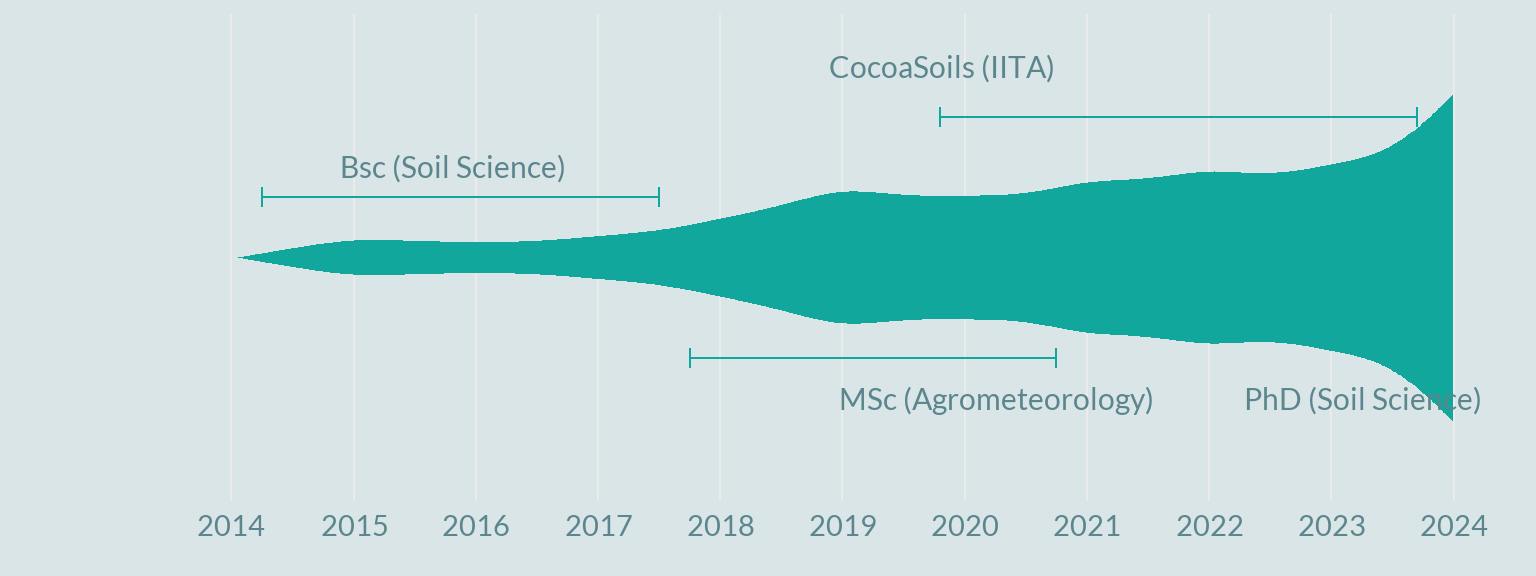
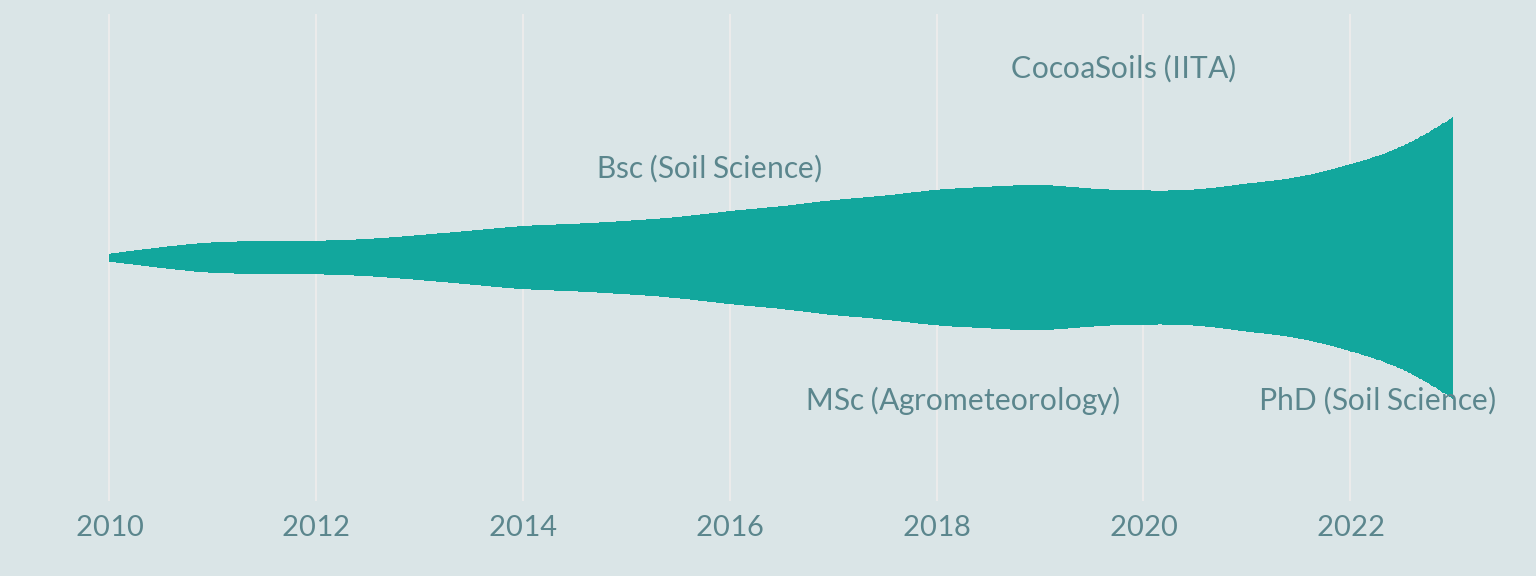
update my stream graph

diff --git a/index.html b/index.html
@@ -380,7 +380,7 @@ Oluwafemi Oyedele
 <h2></h2>
 <h4 data-background-color="#5b868d" id="my-r-journey-so-far">My R journey (so far)</h4>
 
-<img data-src="index_files/figure-revealjs/unnamed-chunk-2-1.png" alt="A stream graph showing the use of R for the author between 2014 and present day. The y-axis represents the general quantity of how often R was used, with no units. An increase is seen from 2019, and then more significantly in the last year." width="768" class="r-stretch quarto-figure-center"></section>
+<img data-src="index_files/figure-revealjs/unnamed-chunk-2-1.png" alt="A stream graph showing the use of R for the author between 2010 and present day. The y-axis represents the general quantity of how often R was used, with no units. An increase is seen from 2019, and then more significantly in the last year." width="768" class="r-stretch quarto-figure-center"></section>
 <section id="section-1" class="slide level2">
 <h2></h2>
 <h4 id="learning-objectives">Learning Objectives</h4>
